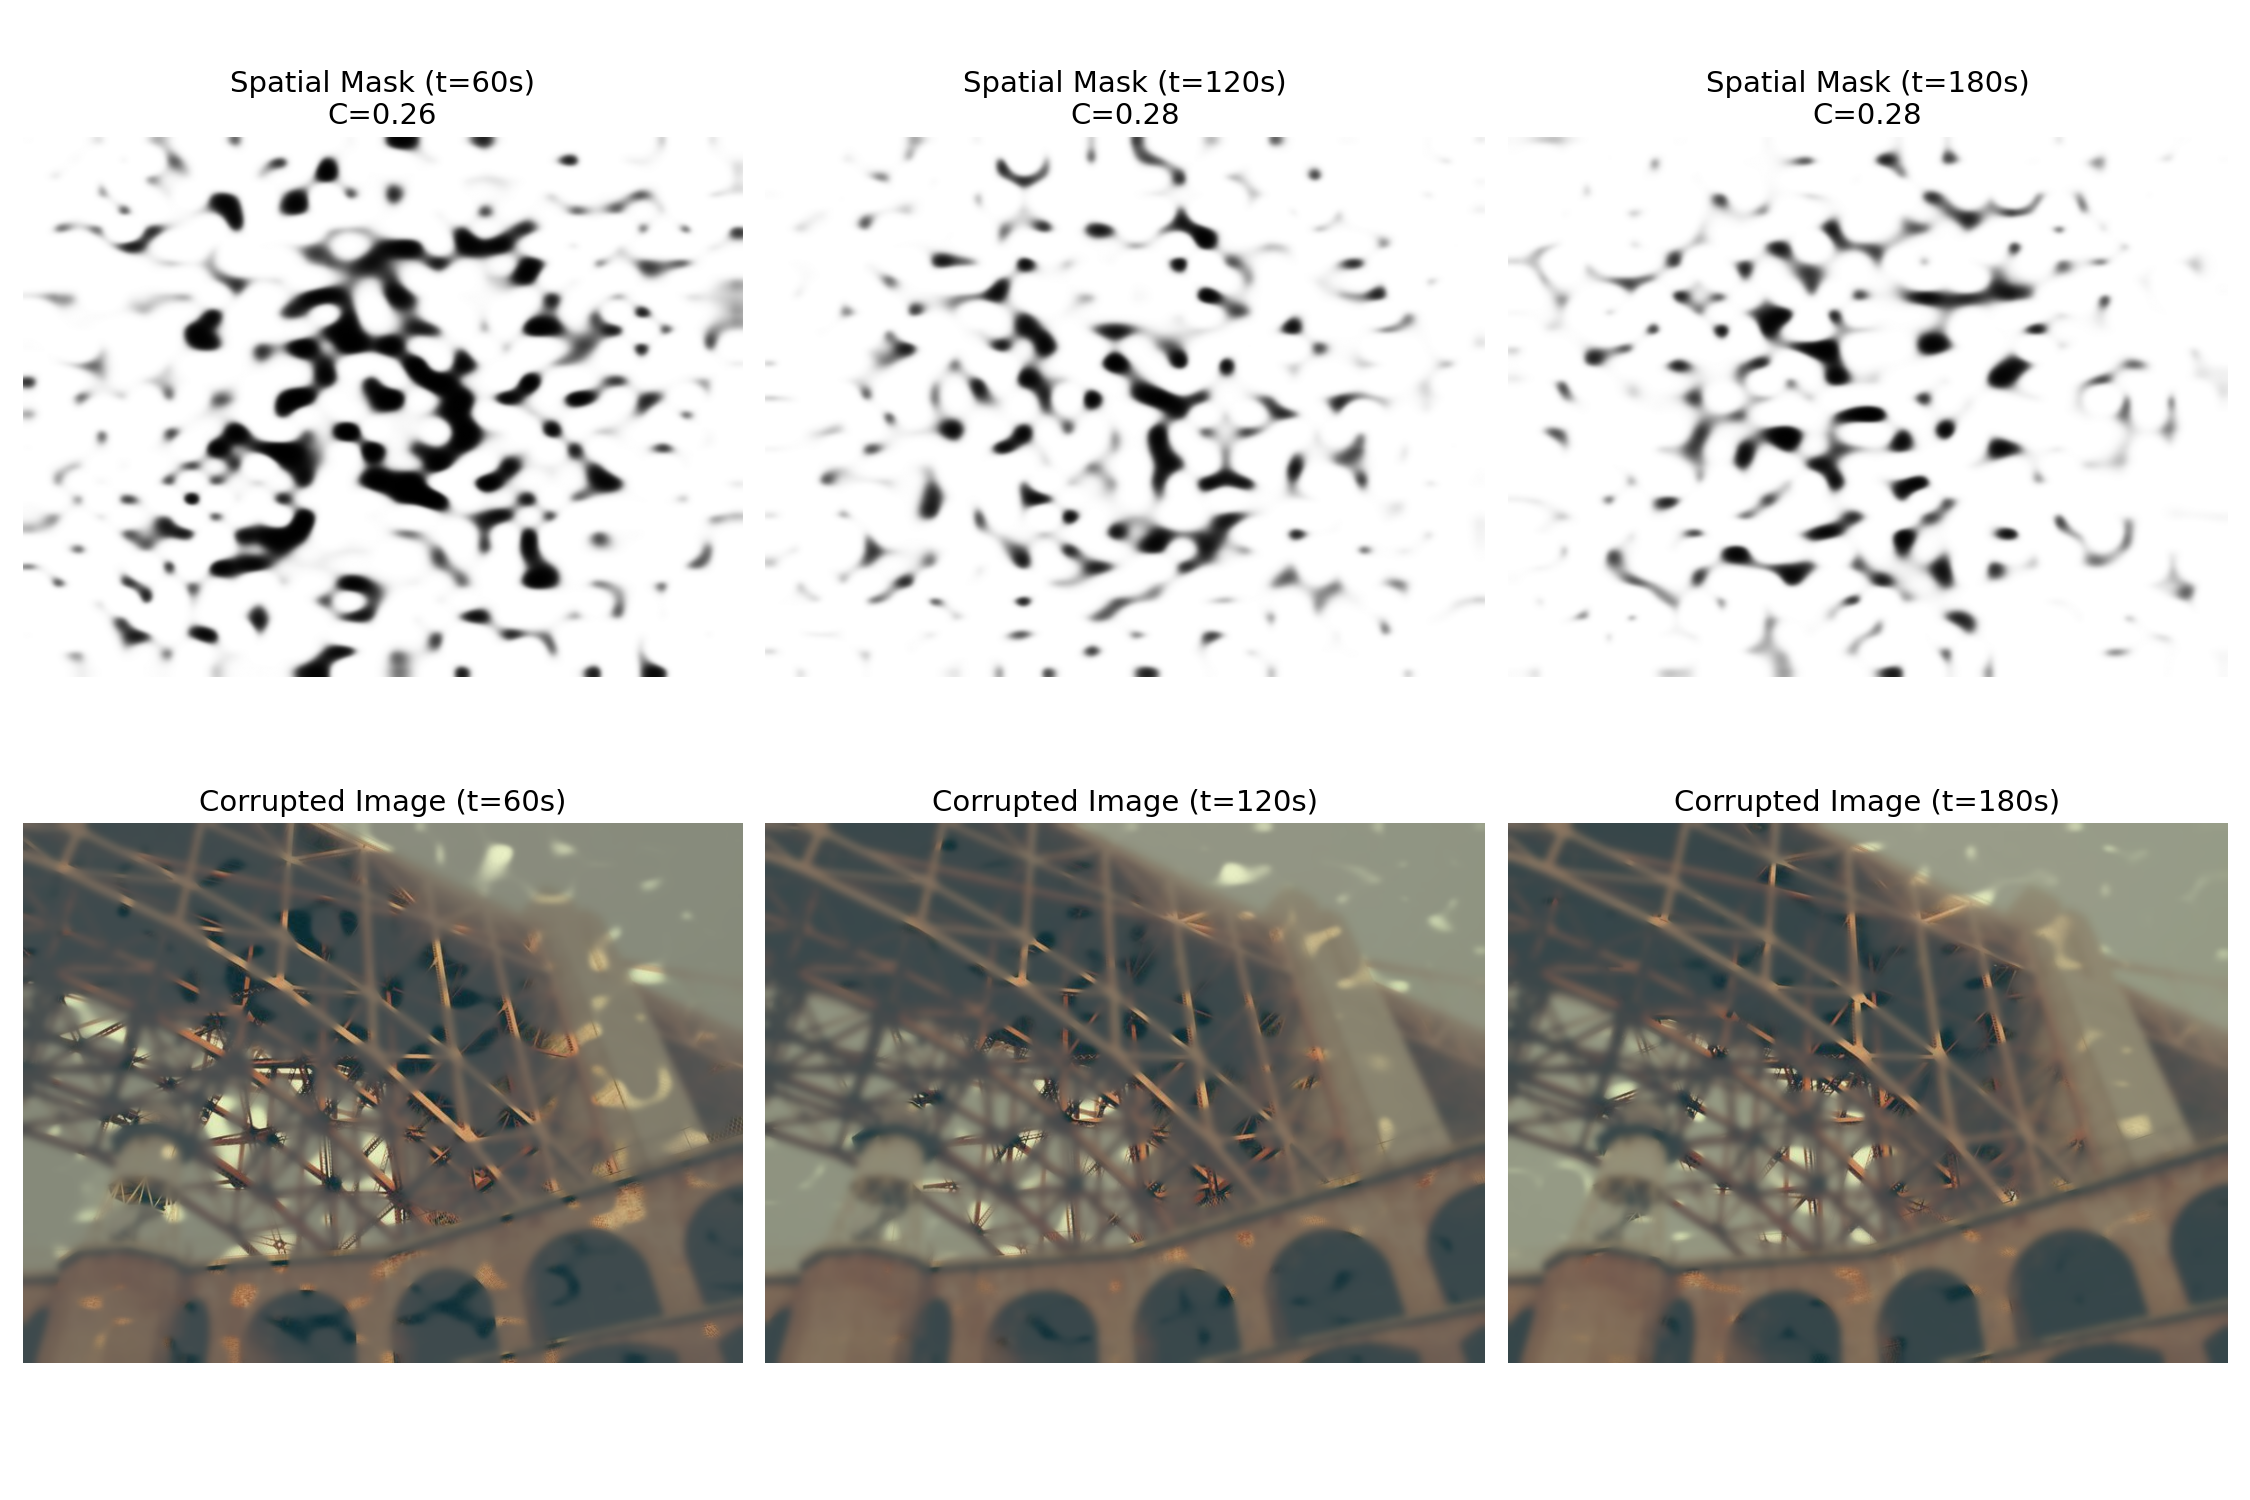
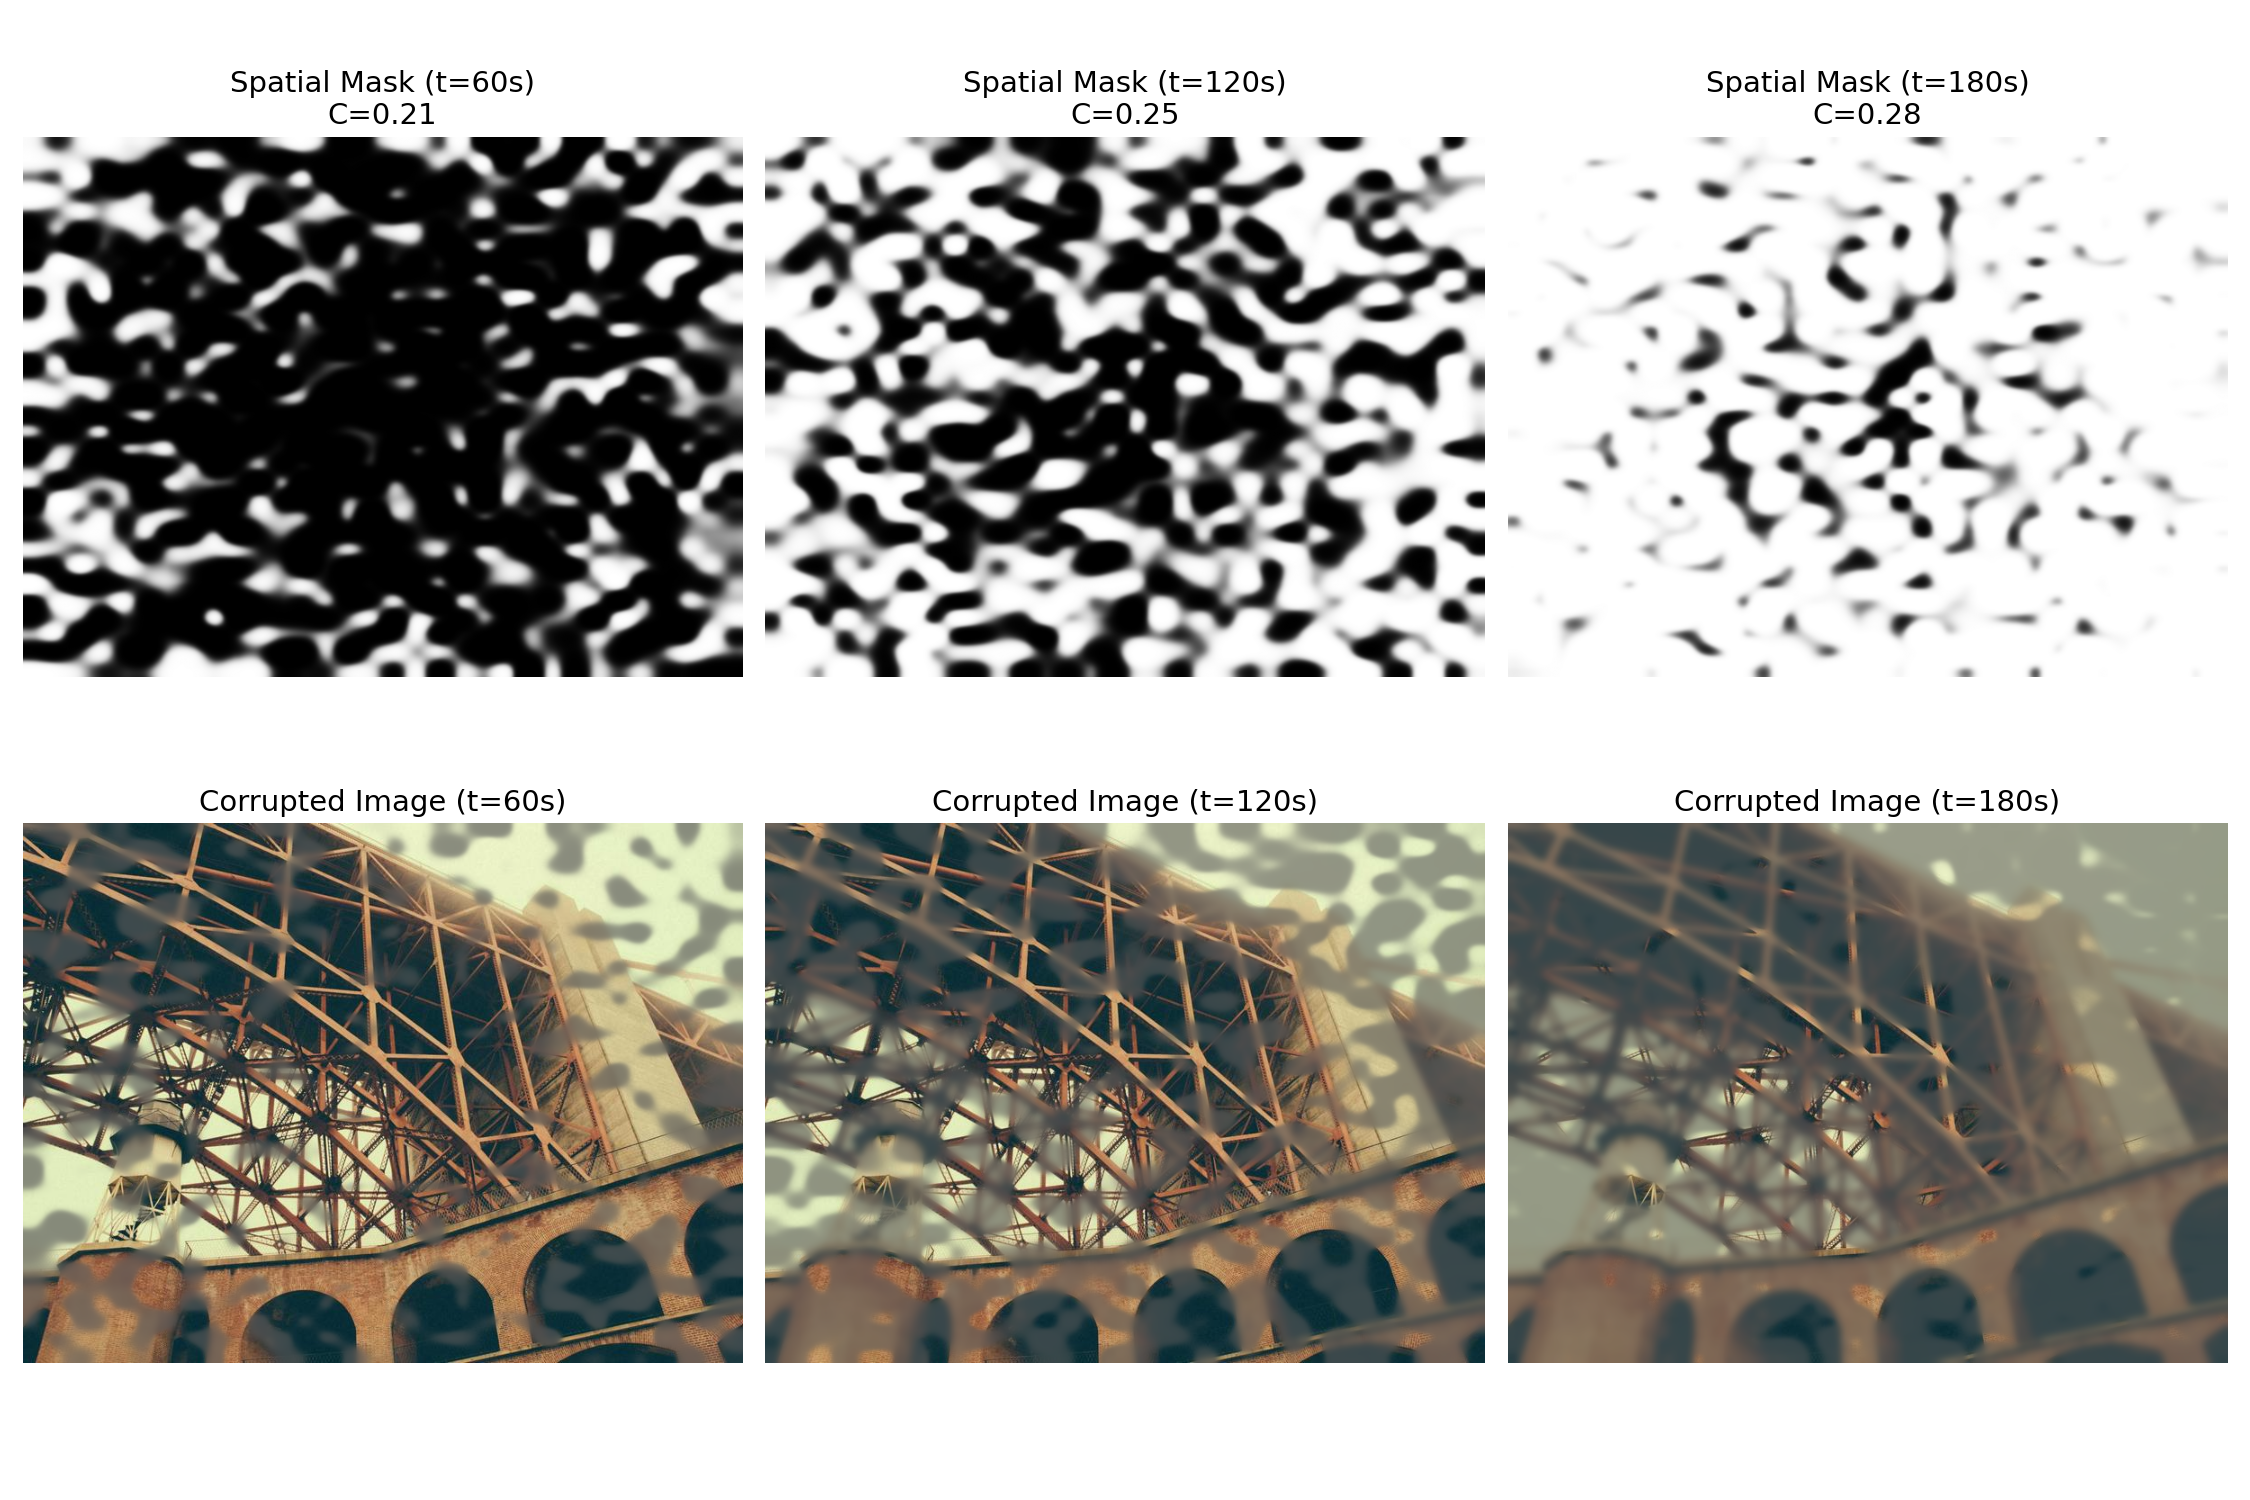
Override coverage for perfectly smooth visual progression

diff --git a/python/corruptor.py b/python/corruptor.py
@@ -61,6 +61,15 @@ class OpticalCorruptor:
         # 1. Fetch parameters (tau, sigma, AND coverage C)
         tau, sigma, coverage = self.lookup.get_optical_params(t_s, delta_t_c, rh, surface)
         
+        # Override coverage for smooth progression as requested
+        if surface == "Untreated glass":
+            if t_s == 60:
+                coverage = 0.21
+            elif t_s == 120:
+                coverage = 0.25
+            elif t_s == 180:
+                coverage = 0.28
+                
         H, W = img.shape[:2]
         
         # Generate spatial mask based on surface type